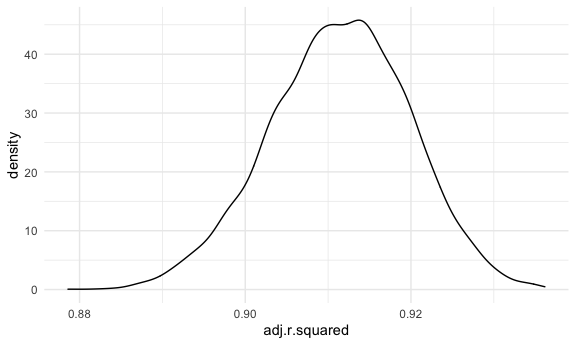
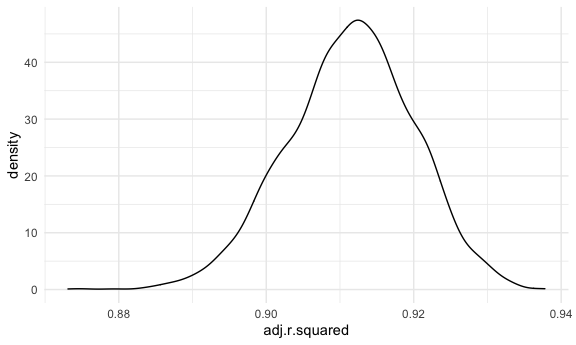
add anova

diff --git a/p8105_hw6_mb4757.md b/p8105_hw6_mb4757.md
@@ -339,6 +339,28 @@ broom::tidy(fit1)
     ## 12 ppwt           -2.65     0.427     -6.20 6.02e- 10
     ## 13 smoken         -4.87     0.585     -8.32 1.13e- 16
 
+``` r
+anova(fit1)
+```
+
+    ## Analysis of Variance Table
+    ## 
+    ## Response: bwt
+    ##             Df    Sum Sq   Mean Sq  F value    Pr(>F)    
+    ## babysex      1   8547634   8547634  115.190 < 2.2e-16 ***
+    ## bhead        1 628838120 628838120 8474.373 < 2.2e-16 ***
+    ## blength      1 140213755 140213755 1889.554 < 2.2e-16 ***
+    ## delwt        1   8647158   8647158  116.531 < 2.2e-16 ***
+    ## gaweeks      1   6663868   6663868   89.804 < 2.2e-16 ***
+    ## mheight      1   1413492   1413492   19.049 1.304e-05 ***
+    ## mrace        3  14809493   4936498   66.525 < 2.2e-16 ***
+    ## parity       1    466821    466821    6.291   0.01217 *  
+    ## ppwt         1   2678006   2678006   36.090 2.039e-09 ***
+    ## smoken       1   5141800   5141800   69.292 < 2.2e-16 ***
+    ## Residuals 4329 321232048     74205                       
+    ## ---
+    ## Signif. codes:  0 '***' 0.001 '**' 0.01 '*' 0.05 '.' 0.1 ' ' 1
+
 I choose backward stepwise regression to build the model since it is an
 appropriate analysis when we have many variables and we are interested
 in identifying a useful subset of the predictors. Backward stepwise
@@ -422,14 +444,14 @@ cv_df %>% pull(train) %>% .[[1]] %>% as_tibble()
     ##    <dbl> <fct>   <dbl>   <dbl> <dbl>   <dbl> <fct>   <dbl> <fct>      <dbl>
     ##  1  3629 2          34      51   177      35 1        39.9 0             13
     ##  2  3062 1          34      48   156      65 2        25.9 0             14
-    ##  3  3345 2          36      50   148      85 1        39.9 0             12
-    ##  4  3062 1          34      52   157      55 1        40   0             14
+    ##  3  3062 1          34      52   157      55 1        40   0             14
+    ##  4  3374 2          34      52   156       5 1        41.6 0             13
     ##  5  3374 1          33      52   129      55 1        40.7 0             12
-    ##  6  2523 2          33      46   126      96 2        40.3 0             14
-    ##  7  2778 2          33      49   140       5 1        37.4 0             12
-    ##  8  3515 1          36      52   146      85 1        40.3 0             11
-    ##  9  3459 1          33      50   169      75 2        40.7 0             12
-    ## 10  3317 2          35      51   130      55 1        43.4 0             13
+    ##  6  3515 1          36      52   146      85 1        40.3 0             11
+    ##  7  3317 2          35      51   130      55 1        43.4 0             13
+    ##  8  3175 2          35      48   158      75 1        39.7 0             13
+    ##  9  3629 1          36      53   147      75 1        41.3 0             11
+    ## 10  3544 1          35      51   129      65 1        39.6 0             12
     ## # … with 3,463 more rows, and 10 more variables: mheight <dbl>, momage <dbl>,
     ## #   mrace <fct>, parity <dbl>, pnumlbw <dbl>, pnumsga <dbl>, ppbmi <dbl>,
     ## #   ppwt <dbl>, smoken <dbl>, wtgain <dbl>
@@ -441,16 +463,16 @@ cv_df %>% pull(test) %>% .[[1]] %>% as_tibble()
     ## # A tibble: 869 x 20
     ##      bwt babysex bhead blength delwt fincome frace gaweeks malform menarche
     ##    <dbl> <fct>   <dbl>   <dbl> <dbl>   <dbl> <fct>   <dbl> <fct>      <dbl>
-    ##  1  3374 2          34      52   156       5 1        41.6 0             13
-    ##  2  3544 1          35      51   129      65 1        39.6 0             12
-    ##  3  2551 2          33      49   120      75 2        38.1 0             11
-    ##  4  3175 1          34      49   148      96 2        39.7 0             10
-    ##  5  2977 2          36      51   135      45 1        41.7 0             13
-    ##  6  3402 1          36      54   161      95 1        40.1 0             11
-    ##  7  3005 2          34      51   149      85 1        39.3 0             14
-    ##  8  3232 2          34      51   155      55 1        41.6 0             15
-    ##  9  2948 2          34      49   135      75 1        42.7 0             12
-    ## 10  3118 1          34      52   130      75 1        41   0             12
+    ##  1  3345 2          36      50   148      85 1        39.9 0             12
+    ##  2  2523 2          33      46   126      96 2        40.3 0             14
+    ##  3  2778 2          33      49   140       5 1        37.4 0             12
+    ##  4  3459 1          33      50   169      75 2        40.7 0             12
+    ##  5  3459 1          35      51   146      55 1        39.4 0             12
+    ##  6  3232 1          35      56   147      55 1        42.1 0             13
+    ##  7  3175 1          34      49   148      96 2        39.7 0             10
+    ##  8  2948 2          33      49   129      25 1        41   0             13
+    ##  9  3402 1          36      54   161      95 1        40.1 0             11
+    ## 10  3062 2          33      54   134      65 1        40.4 0             12
     ## # … with 859 more rows, and 10 more variables: mheight <dbl>, momage <dbl>,
     ## #   mrace <fct>, parity <dbl>, pnumlbw <dbl>, pnumsga <dbl>, ppbmi <dbl>,
     ## #   ppwt <dbl>, smoken <dbl>, wtgain <dbl>
@@ -475,6 +497,13 @@ cv_df %>%
     rmse_fit2 = map2_dbl(.x = fit2_mod, .y = test, ~rmse(model = .x, data = .y)),
     rmse_fit3 = map2_dbl(.x = fit3_mod, .y = test, ~rmse(model = .x, data = .y)))
 ```
+
+    ## Warning: Problem with `mutate()` input `rmse_fit1`.
+    ## ℹ prediction from a rank-deficient fit may be misleading
+    ## ℹ Input `rmse_fit1` is `map2_dbl(.x = fit1_mod, .y = test, ~rmse(model = .x, data = .y))`.
+
+    ## Warning in predict.lm(model, data): prediction from a rank-deficient fit may be
+    ## misleading
 
 ``` r
 cv_df %>% 
@@ -509,9 +538,9 @@ cv_df %>%
     ## # A tibble: 3 x 2
     ##   model avg_rmse
     ##   <chr>    <dbl>
-    ## 1 fit1      274.
-    ## 2 fit2      336.
-    ## 3 fit3      291.
+    ## 1 fit1      272.
+    ## 2 fit2      332.
+    ## 3 fit3      288.
 
 After comparing the three models by average rmse and violin plots of
 rmse, we can see that fit1 model has the smallest average rmse.
@@ -618,7 +647,7 @@ rsquare_df %>%
     ## # A tibble: 1 x 3
     ##   avg_r_square ci_lower ci_upper
     ##          <dbl>    <dbl>    <dbl>
-    ## 1        0.911    0.894    0.927
+    ## 1        0.911    0.894    0.928
 
 ``` r
 # plot
